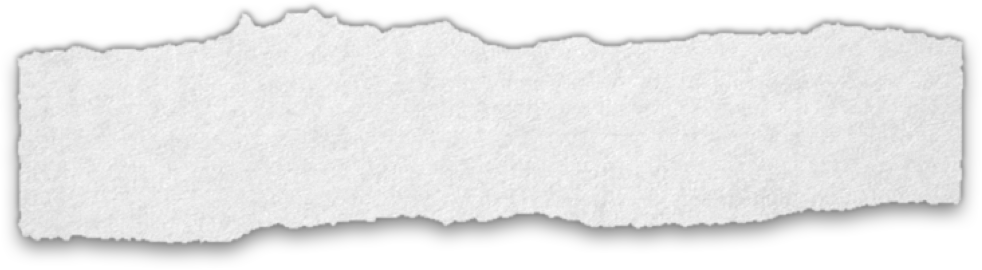
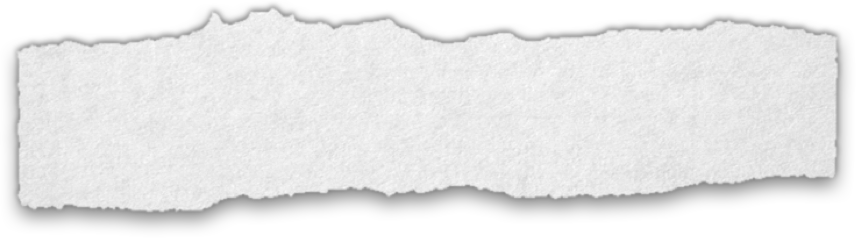
add torn sheet 2

diff --git a/index.html b/index.html
@@ -301,7 +301,7 @@
           <img src="" id="image_1" alt="">
         </div>
         <div id="torn_sheet_1">
-          <img src="images/torn sheet small.png" id="sheet_1" alt="torn sheet">
+          <img src="images/torn sheet small 2.png" id="sheet_1" alt="torn sheet">
           <p id="quote_1">
           </p>
         </div>
